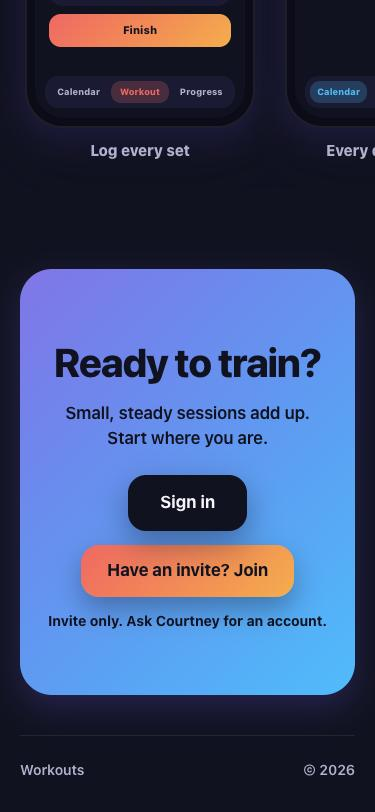
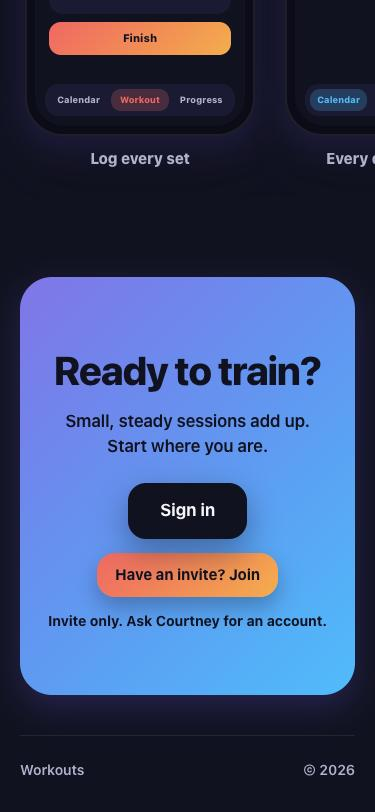
Smaller invite buttons

diff --git a/frontend/styles.css b/frontend/styles.css
@@ -646,7 +646,7 @@ dialog .field-label { margin-top: 14px; }
 .chart-tip .trow { display: flex; align-items: center; gap: 6px; font-size: 13px; font-weight: 700; }
 .chart-tip .trow i { color: #B9BBD6; font-weight: 600; }
 /* "Have an invite?" buttons: coral to mango, navy text (6.8:1+) */
-.hero .cta-row .invite-btn { box-shadow: var(--shadow-coral); }
-.lp-cta .invite-btn { display: flex; width: auto; margin: 0 auto 14px; padding: 0 26px; min-height: 52px; background: var(--grad-hot); color: var(--on-colour); box-shadow: 0 12px 28px rgba(15, 16, 36, 0.35); }
+.hero .cta-row .invite-btn { min-height: 44px; padding: 0 18px; font-size: 15px; box-shadow: var(--shadow-coral); }
+.lp-cta .invite-btn { display: flex; width: auto; margin: 0 auto 14px; padding: 0 18px; min-height: 44px; font-size: 15px; background: var(--grad-hot); color: var(--on-colour); box-shadow: 0 10px 22px rgba(15, 16, 36, 0.3); }
 #prog-metric { gap: 6px; }
 #prog-metric button { white-space: nowrap; font-size: 14px; padding: 0 6px; }
